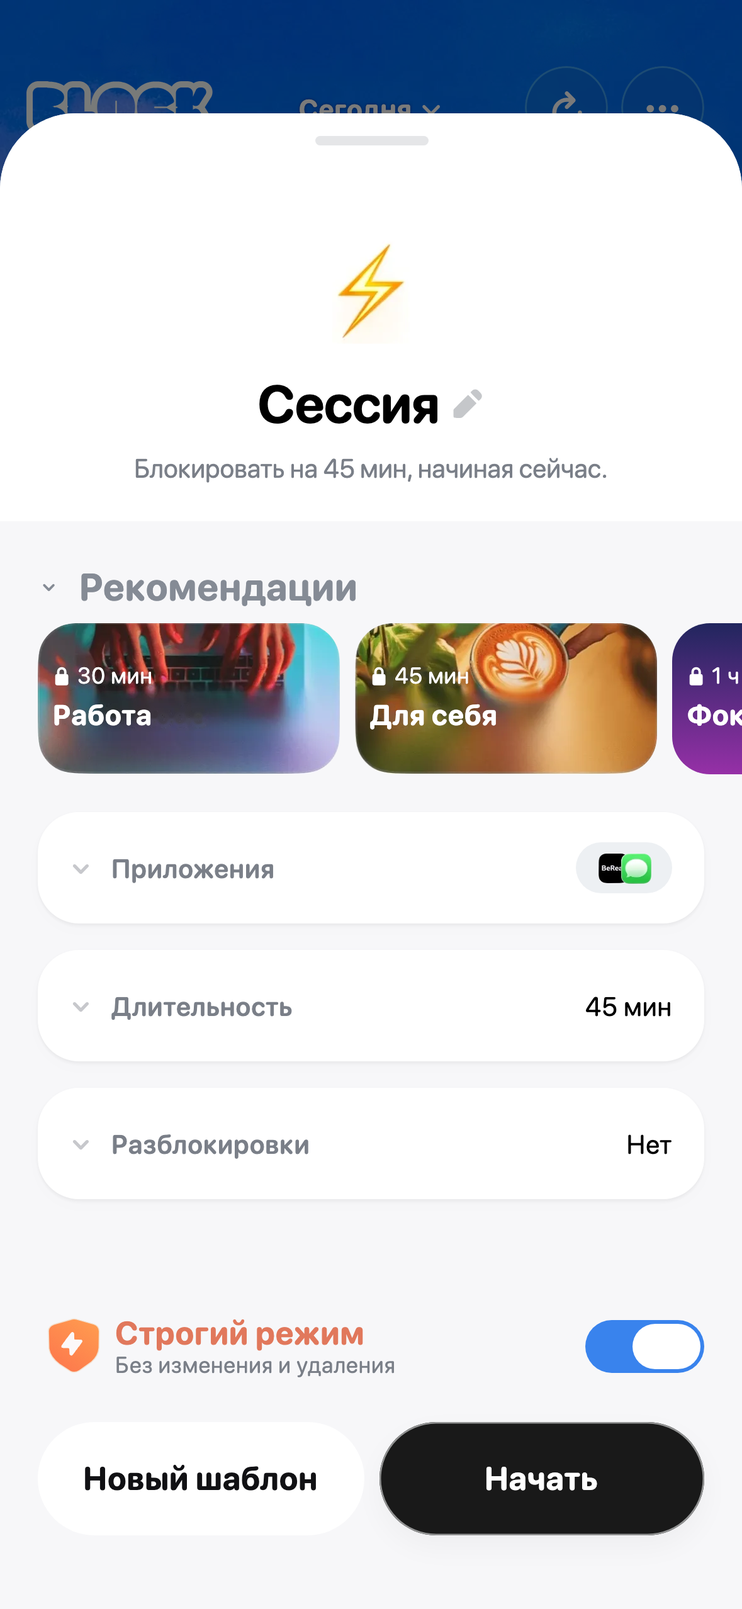
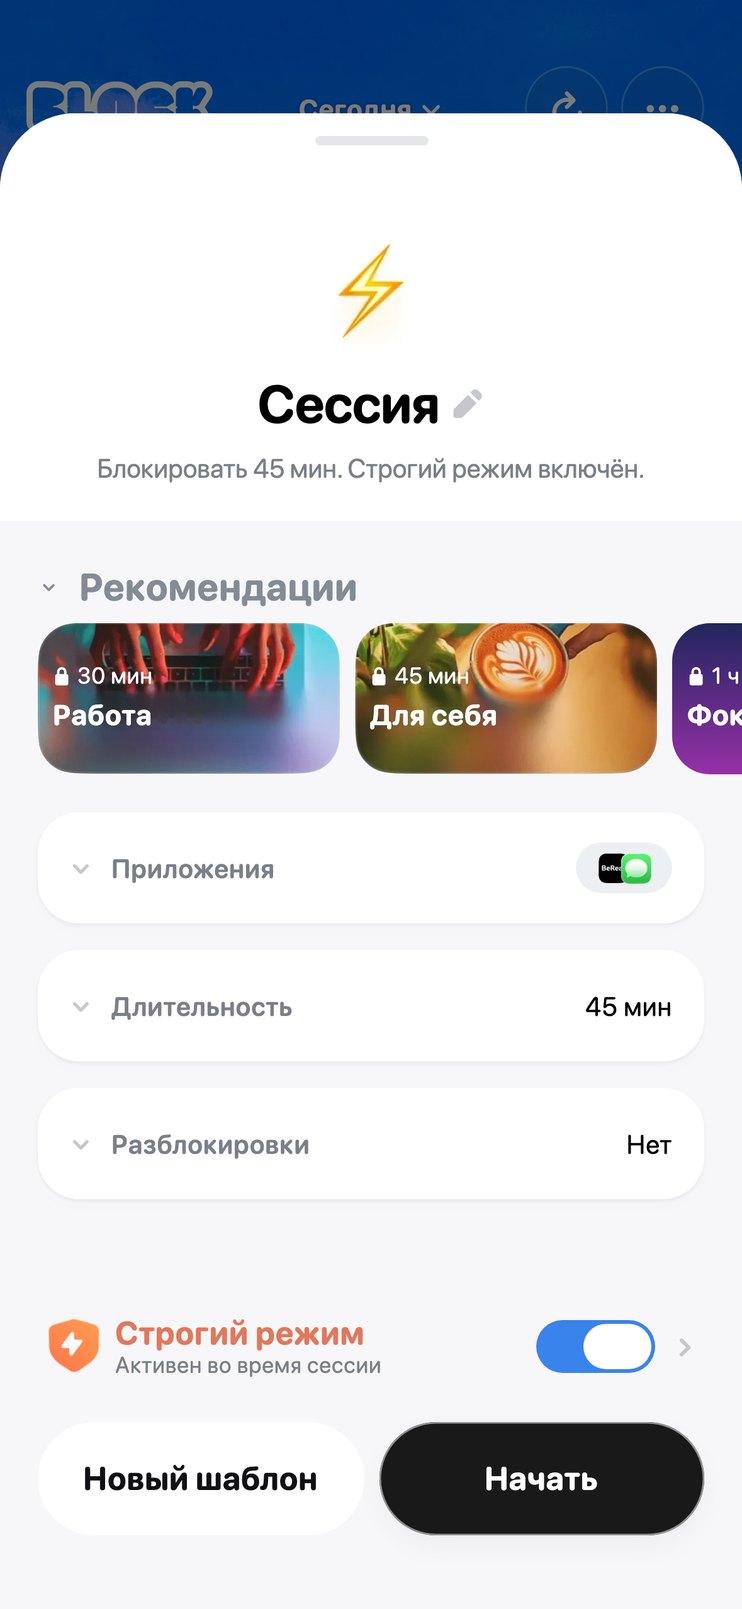
Перенести настройки и подтверждение строгого режима

diff --git a/src/screens/session/StrictSettingsSheet.tsx b/src/screens/session/StrictSettingsSheet.tsx
@@ -1,0 +1,56 @@
+import { BlurView } from 'expo-blur';
+import { LinearGradient } from 'expo-linear-gradient';
+import { useState } from 'react';
+import { Modal, Pressable, ScrollView, StyleSheet, View, useWindowDimensions } from 'react-native';
+import { useSafeAreaInsets } from 'react-native-safe-area-context';
+import { Icon } from '@/components/Icon';
+import { animateLayout, PressScale } from '@/components/motion';
+import type { StrictSettings } from '@/data/session';
+import { colors, strictTheme as c } from '@/theme/tokens';
+import { T } from '@/theme/typography';
+
+export const strictDaysLabel = (days: number) => `${days} ${days === 1 || days === 21 ? 'день' : days % 10 >= 2 && days % 10 <= 4 && (days < 12 || days > 14) ? 'дня' : 'дней'}`;
+export function StrictSettingsSheet({ value, onCancel, onActivate }: { value: StrictSettings; onCancel: () => void; onActivate: (settings: StrictSettings) => void }) {
+  const [draft, setDraft] = useState<StrictSettings>(() => ({ strictScope: value.strictScope, strictDays: value.strictDays }));
+  const { height } = useWindowDimensions();
+  const insets = useSafeAreaInsets();
+  const session = draft.strictScope === 'session';
+  return <Modal transparent animationType="slide" onRequestClose={onCancel}>
+    <View style={{ flex: 1 }}><Pressable accessibilityLabel="Отменить строгий режим" onPress={onCancel} style={[StyleSheet.absoluteFill, { backgroundColor: c.backdrop }]} />
+      <View style={[styles.sheet, { top: Math.max(insets.top + 20, height - 579) }]} accessibilityViewIsModal>
+        <View style={styles.handle} /><View style={styles.title}><Icon name="session-shield" width={22} height={24} /><T size={20} ls={0}>Строгий режим</T></View>
+        <ScrollView showsVerticalScrollIndicator={false} style={{ marginTop: 97 }} contentContainerStyle={{ paddingHorizontal: 20, paddingBottom: 120 }}>
+          <View style={[styles.card, { height: session ? 194 : draft.strictDays === 1 ? 315 : 292 }]}>
+            <View style={styles.section}><Icon name="chevron-down-section" width={10} height={8} color={c.handle} style={{ transform: [{ rotate: '180deg' }] }} /><T size={20} ls={0}>Активность…</T></View>
+            <View style={[styles.tabs, session && { left: -49 }]}>
+              {(['days', 'session'] as const).map(scope => <PressScale key={scope} accessibilityRole="radio" accessibilityLabel={scope === 'days' ? 'Строгий режим на срок' : 'Строгий режим на время сессии'} accessibilityState={{ checked: draft.strictScope === scope }} onPress={() => { animateLayout(); setDraft(d => ({ ...d, strictScope: scope })); }} style={[styles.tab, { width: scope === 'days' ? session ? 123 : 143 : session ? 180 : 161 }, draft.strictScope === scope && styles.tabOn]}><T size={session ? 14 : 13.5} color={draft.strictScope === scope ? colors.white : c.secondary} ls={0}>{draft.strictScope === scope ? '✓ ' : ''}{scope === 'days' ? session ? 'На срок' : 'На заданный срок' : 'На время сессии'}</T></PressScale>)}
+              {session && <View style={[styles.tab, { width: 80 }]} accessibilityState={{ disabled: true }}><T size={14} color={c.secondary} ls={0}>Всегда</T></View>}
+            </View>
+            <View style={styles.description}>{session ? <T size={18} center ls={0} style={{ lineHeight: 23 }}>Запретить изменения <T size={18} color={c.red} ls={0}>во время </T><T size={18} color={c.orange} ls={0}>сессии.</T></T> : <><T size={18} center ls={0} style={{ lineHeight: 23 }}>Запретить изменения</T>{draft.strictDays === 1 ? <><T size={18} center ls={0} color={c.red} style={{ lineHeight: 23 }}>на 24 часа после</T><T size={18} center ls={0} color={c.orange} style={{ lineHeight: 23 }}>начала правила.</T></> : <T size={18} center ls={0} color={c.red} style={{ lineHeight: 23 }}>на {strictDaysLabel(draft.strictDays)} после начала правила.</T>}</>}</View>
+            {!session && <><View style={styles.days}><PressScale accessibilityRole="button" accessibilityLabel="Уменьшить срок строгого режима" disabled={draft.strictDays <= 1} accessibilityState={{ disabled: draft.strictDays <= 1 }} onPress={() => setDraft(d => ({ ...d, strictDays: d.strictDays - 1 }))} style={[styles.countButton, draft.strictDays <= 1 && { opacity: .4 }]}><T size={25} weight={500} ls={0}>−</T></PressScale><T size={36} ls={0}>{strictDaysLabel(draft.strictDays)}</T><PressScale accessibilityRole="button" accessibilityLabel="Увеличить срок строгого режима" disabled={draft.strictDays >= 30} accessibilityState={{ disabled: draft.strictDays >= 30 }} onPress={() => setDraft(d => ({ ...d, strictDays: d.strictDays + 1 }))} style={styles.countButton}><Icon name="plus" width={15} height={15} color={colors.black} /></PressScale></View><T size={11} weight={400} color={c.note} center ls={0} style={styles.note}>При необходимости срок можно продлить.</T></>}
+          </View>
+          <View style={styles.prevent}><Icon name="chevron-down-section" width={10} height={8} color={c.handle} /><T size={14} weight={600} color={c.secondary} ls={0}>Запретить…</T><T size={14} weight={400} ls={0} style={{ marginLeft: 'auto' }}>3</T></View>
+        </ScrollView>
+        <LinearGradient pointerEvents="none" colors={[c.surfaceFade, c.surface]} style={styles.fade} />
+        <PressScale accessibilityRole="button" accessibilityLabel="Включить строгий режим" onPress={() => onActivate(draft)} style={[styles.activate, { bottom: Math.max(45, insets.bottom + 10) }]}><LinearGradient colors={c.gradient} start={{ x: 0, y: 0 }} end={{ x: 1, y: 0 }} style={StyleSheet.absoluteFill} /><Icon name="shield-check-white" width={17} height={19} color={colors.white} /><T size={16} color={colors.white} ls={0}>Включить строгий режим</T></PressScale>
+      </View>
+    </View>
+  </Modal>;
+}
+export function StrictConfirmation({ onCancel, onContinue }: { onCancel: () => void; onContinue: () => void }) {
+  const { height } = useWindowDimensions();
+  return <Modal transparent animationType="fade" onRequestClose={onCancel}><View style={{ flex: 1 }}><Pressable accessibilityLabel="Закрыть подтверждение строгого режима" onPress={onCancel} style={[StyleSheet.absoluteFill, { backgroundColor: c.alertBackdrop }]} />
+    <View style={[styles.alert, { top: height * .515 - 96 }]} accessibilityViewIsModal accessibilityRole="alert">
+      <BlurView intensity={16} tint="light" style={StyleSheet.absoluteFill} /><LinearGradient colors={c.alertGradient} style={StyleSheet.absoluteFill} />
+      <T size={17} weight={600} ls={0} variant="display" style={styles.alertTitle}>✋ Включить строгий режим?</T><T size={15} weight={400} color={c.alertCopy} ls={0} variant="display" style={styles.alertCopy}>Нельзя менять правило и удалять приложения с iPhone/iPad, пока включён строгий режим.</T>
+      <View style={styles.alertActions}><PressScale accessibilityRole="button" onPress={onCancel} style={[styles.alertButton, { backgroundColor: c.alertCancel }]}><T size={17} weight={400} variant="display" ls={0}>Отмена</T></PressScale><PressScale accessibilityRole="button" onPress={onContinue} style={[styles.alertButton, { backgroundColor: c.alertPrimary }]}><T size={17} weight={500} variant="display" color={colors.white} ls={0}>Продолжить</T></PressScale></View>
+    </View>
+  </View></Modal>;
+}
+const styles = StyleSheet.create({
+  sheet: { position: 'absolute', left: 8, right: 8, bottom: 8, borderRadius: c.radius, backgroundColor: c.surface, overflow: 'hidden' }, handle: { position: 'absolute', top: 11, width: 60, height: 5, alignSelf: 'center', backgroundColor: c.handle, borderRadius: 5 }, title: { position: 'absolute', top: 42, left: 0, right: 0, flexDirection: 'row', gap: 5, alignItems: 'center', justifyContent: 'center' },
+  card: { backgroundColor: colors.white, borderRadius: c.cardRadius, overflow: 'hidden' }, section: { position: 'absolute', left: 16, top: 15, flexDirection: 'row', alignItems: 'center', gap: 8 }, tabs: { position: 'absolute', top: 52, left: 15, flexDirection: 'row', gap: 4 }, tab: { height: 40, borderRadius: c.tabRadius, borderWidth: 1, borderColor: c.border, alignItems: 'center', justifyContent: 'center' }, tabOn: { backgroundColor: c.blue, borderColor: c.blue }, description: { position: 'absolute', top: 119, left: 28, right: 28 },
+  days: { position: 'absolute', left: 40, right: 40, bottom: 52, height: 42, flexDirection: 'row', alignItems: 'center', justifyContent: 'space-between' }, countButton: { width: 38, height: 38, borderRadius: 19, backgroundColor: c.countFill, alignItems: 'center', justifyContent: 'center' }, note: { position: 'absolute', bottom: 24, left: 0, right: 0 }, prevent: { marginTop: 12, height: 60, borderRadius: c.cardRadius, backgroundColor: colors.white, flexDirection: 'row', alignItems: 'center', paddingHorizontal: 16, gap: 8 },
+  fade: { position: 'absolute', left: 0, right: 0, bottom: 0, height: 117 }, activate: { position: 'absolute', left: 20, right: 20, height: 57, borderRadius: 32, overflow: 'hidden', flexDirection: 'row', alignItems: 'center', justifyContent: 'center', gap: 5 },
+  alert: { position: 'absolute', left: 37, right: 37, height: 192, borderRadius: c.radius, overflow: 'hidden', boxShadow: c.alertShadow }, alertTitle: { position: 'absolute', top: 21, left: 30, right: 20, lineHeight: 22 }, alertCopy: { position: 'absolute', top: 49, left: 30, right: 30, lineHeight: 20 }, alertActions: { position: 'absolute', left: 16, right: 16, bottom: 16, height: 48, flexDirection: 'row', gap: 8 }, alertButton: { flex: 1, borderRadius: 26, justifyContent: 'center', alignItems: 'center' },
+});

diff --git a/docs/reviews/2026-11-02-progress.html b/docs/reviews/2026-11-02-progress.html
@@ -1,0 +1,1 @@
+<!doctype html><html lang="ru"><meta charset="utf-8"><meta name="viewport" content="width=device-width,initial-scale=1"><title>Сравнение экранов React Native</title><style>body{margin:0;background:#eeeef1;color:#17191a;font:16px system-ui,sans-serif}header,main{max-width:786px;margin:auto;padding:24px}header{background:white}h1{font-size:26px}h2{margin-top:48px;font-size:22px}figure{margin:20px 0;background:white;border-radius:16px;overflow:hidden}figcaption{padding:14px;font-size:14px}img{display:block;width:100%;height:auto}a{color:#176be2}</style><header><h1>Продолжение React Native</h1><p>Оригинал слева, текущая вёрстка справа. Нажмите на сравнение для увеличения.</p><p><a href="http://localhost:8081">Открыть приложение</a> · <a href="2026-11-02-progress.md">Общий отчёт</a></p><p>Проверено в Chrome. Полная приёмка1:1 и проверка на iPhone ещё не завершены.</p></header><main><section><h2>Длительность, разблокировки и шаблоны</h2><p><a href="2026-11-02-session-unlocks/README.md">Отчёт и ограничения</a></p><figure><figcaption>Состояние 054 · оригинал слева / React Native справа</figcaption><a href="2026-11-02-session-unlocks/comparison-01-overview-054.png" target="_blank"><img loading="lazy" src="2026-11-02-session-unlocks/comparison-01-overview-054.png" alt="Оригинал и React Native рядом"></a></figure><figure><figcaption>Состояние 055 · оригинал слева / React Native справа</figcaption><a href="2026-11-02-session-unlocks/comparison-02-unlocks-no-055.png" target="_blank"><img loading="lazy" src="2026-11-02-session-unlocks/comparison-02-unlocks-no-055.png" alt="Оригинал и React Native рядом"></a></figure><figure><figcaption>Состояние 056 · оригинал слева / React Native справа</figcaption><a href="2026-11-02-session-unlocks/comparison-03-unlocks-two-056.png" target="_blank"><img loading="lazy" src="2026-11-02-session-unlocks/comparison-03-unlocks-two-056.png" alt="Оригинал и React Native рядом"></a></figure><figure><figcaption>076 · Длительность15мин · оригинал слева / React Native справа</figcaption><a href="2026-11-02-session-unlocks/comparison-04-duration-sheet-15.png" target="_blank"><img loading="lazy" src="2026-11-02-session-unlocks/comparison-04-duration-sheet-15.png" alt="Оригинал и React Native рядом"></a></figure><figure><figcaption>077 · Длительность10мин · оригинал слева / React Native справа</figcaption><a href="2026-11-02-session-unlocks/comparison-05-duration-sheet-10.png" target="_blank"><img loading="lazy" src="2026-11-02-session-unlocks/comparison-05-duration-sheet-10.png" alt="Оригинал и React Native рядом"></a></figure></section><section><h2>Иконка и название</h2><p><a href="2026-11-02-session-icons/README.md">Отчёт и ограничения</a></p><figure><figcaption>Состояние 059 · оригинал слева / React Native справа</figcaption><a href="2026-11-02-session-icons/comparison-00-icon-picker-059.png" target="_blank"><img loading="lazy" src="2026-11-02-session-icons/comparison-00-icon-picker-059.png" alt="Оригинал и React Native рядом"></a></figure><figure><figcaption>Состояние 060 · оригинал слева / React Native справа</figcaption><a href="2026-11-02-session-icons/comparison-01-search-brain-060.png" target="_blank"><img loading="lazy" src="2026-11-02-session-icons/comparison-01-search-brain-060.png" alt="Оригинал и React Native рядом"></a></figure><figure><figcaption>Состояние 061 · оригинал слева / React Native справа</figcaption><a href="2026-11-02-session-icons/comparison-02-session-brain-061.png" target="_blank"><img loading="lazy" src="2026-11-02-session-icons/comparison-02-session-brain-061.png" alt="Оригинал и React Native рядом"></a></figure><figure><figcaption>Состояние 062 · оригинал слева / React Native справа</figcaption><a href="2026-11-02-session-icons/comparison-03-focus-renamed-062.png" target="_blank"><img loading="lazy" src="2026-11-02-session-icons/comparison-03-focus-renamed-062.png" alt="Оригинал и React Native рядом"></a></figure></section><section><h2>Пауза и причина</h2><p><a href="2026-11-02-unlock-methods/README.md">Отчёт и ограничения</a></p><figure><figcaption>Состояние 080 · оригинал слева / React Native справа</figcaption><a href="2026-11-02-unlock-methods/comparison-00-wait-automatic-080.png" target="_blank"><img loading="lazy" src="2026-11-02-unlock-methods/comparison-00-wait-automatic-080.png" alt="Оригинал и React Native рядом"></a></figure><figure><figcaption>Состояние 081 · оригинал слева / React Native справа</figcaption><a href="2026-11-02-unlock-methods/comparison-01-wait-30s-081.png" target="_blank"><img loading="lazy" src="2026-11-02-unlock-methods/comparison-01-wait-30s-081.png" alt="Оригинал и React Native рядом"></a></figure><figure><figcaption>Состояние 082 · оригинал слева / React Native справа</figcaption><a href="2026-11-02-unlock-methods/comparison-02-wait-1m-082.png" target="_blank"><img loading="lazy" src="2026-11-02-unlock-methods/comparison-02-wait-1m-082.png" alt="Оригинал и React Native рядом"></a></figure><figure><figcaption>Состояние 084 · оригинал слева / React Native справа</figcaption><a href="2026-11-02-unlock-methods/comparison-03-reason-084.png" target="_blank"><img loading="lazy" src="2026-11-02-unlock-methods/comparison-03-reason-084.png" alt="Оригинал и React Native рядом"></a></figure></section><section><h2>Перепечатать текст</h2><p><a href="2026-11-02-unlock-text/README.md">Отчёт и ограничения</a></p><figure><figcaption>Состояние 086 · оригинал слева / React Native справа</figcaption><a href="2026-11-02-unlock-text/comparison-00-copy-text-086.png" target="_blank"><img loading="lazy" src="2026-11-02-unlock-text/comparison-00-copy-text-086.png" alt="Оригинал и React Native рядом"></a></figure><figure><figcaption>Состояние 089 · оригинал слева / React Native справа</figcaption><a href="2026-11-02-unlock-text/comparison-01-copy-text-edited-089.png" target="_blank"><img loading="lazy" src="2026-11-02-unlock-text/comparison-01-copy-text-edited-089.png" alt="Оригинал и React Native рядом"></a></figure><figure><figcaption>Состояние 087 · оригинал слева / React Native справа</figcaption><a href="2026-11-02-unlock-text/comparison-02-session-text-087.png" target="_blank"><img loading="lazy" src="2026-11-02-unlock-text/comparison-02-session-text-087.png" alt="Оригинал и React Native рядом"></a></figure></section><section><h2>Строгий режим</h2><p><a href="2026-11-02-strict/README.md">Отчёт и ограничения</a></p><figure><figcaption>Состояние 095 · оригинал слева / React Native справа</figcaption><a href="2026-11-02-strict/comparison-00-during-session-095.png" target="_blank"><img loading="lazy" src="2026-11-02-strict/comparison-00-during-session-095.png" alt="Оригинал и React Native рядом"></a></figure><figure><figcaption>Состояние 100 · оригинал слева / React Native справа</figcaption><a href="2026-11-02-strict/comparison-01-one-day-100.png" target="_blank"><img loading="lazy" src="2026-11-02-strict/comparison-01-one-day-100.png" alt="Оригинал и React Native рядом"></a></figure><figure><figcaption>Состояние 101 · оригинал слева / React Native справа</figcaption><a href="2026-11-02-strict/comparison-02-two-days-101.png" target="_blank"><img loading="lazy" src="2026-11-02-strict/comparison-02-two-days-101.png" alt="Оригинал и React Native рядом"></a></figure><figure><figcaption>Состояние 096 · оригинал слева / React Native справа</figcaption><a href="2026-11-02-strict/comparison-03-strict-on-096.png" target="_blank"><img loading="lazy" src="2026-11-02-strict/comparison-03-strict-on-096.png" alt="Оригинал и React Native рядом"></a></figure><figure><figcaption>Состояние 097 · оригинал слева / React Native справа</figcaption><a href="2026-11-02-strict/comparison-04-confirmation-097.png" target="_blank"><img loading="lazy" src="2026-11-02-strict/comparison-04-confirmation-097.png" alt="Оригинал и React Native рядом"></a></figure></section></main></html>

diff --git a/src/screens/session/SessionEditor.tsx b/src/screens/session/SessionEditor.tsx
@@ -5,6 +5,7 @@ import { useState } from 'react';
 import { Pressable, ScrollView, StyleSheet, TextInput, View } from 'react-native';
 import { useSafeAreaInsets } from 'react-native-safe-area-context';
 import { SessionIcon } from '@/components/SessionIcon';
+import { StrictSettingsSheet, StrictConfirmation, strictDaysLabel } from './StrictSettingsSheet';
 import { SessionIconPicker } from './SessionIconPicker';
 import { Icon } from '@/components/Icon';
 import { animateLayout, PressScale } from '@/components/motion';
@@ -25,6 +26,8 @@ export function SessionEditor() {
   const [open, setOpen] = useState<'duration' | 'unlocks' | 'apps' | null>(null);
   const [editing, setEditing] = useState(false);
   const [iconOpen, setIconOpen] = useState(false);
+  const [strictOpen, setStrictOpen] = useState(false);
+  const [strictConfirm, setStrictConfirm] = useState(false);
   const [selectedApps, setSelectedApps] = useState([true, true, true]);
   const activityExpanded = open === 'duration';
   const unlockExpanded = open === 'unlocks';
@@ -47,7 +50,7 @@ export function SessionEditor() {
           </PressScale>
           {editing ? <TextInput autoFocus accessibilityLabel="Название сессии" value={draft.title} onChangeText={title => patch({ title })} onBlur={() => { patch({ title: draft.title.trim() || 'Сессия' }); setEditing(false); }} onSubmitEditing={() => { patch({ title: draft.title.trim() || 'Сессия' }); setEditing(false); }} maxLength={35} style={styles.titleInput} /> :
             <PressScale onPress={() => setEditing(true)} accessibilityRole="button" accessibilityLabel="Изменить название сессии" style={styles.title}><T size={28} ls={-.4} numberOfLines={1} style={{ flexShrink: 1 }}>{draft.title}</T><Icon name="pencil" width={18} height={18} color={c.disabled} /></PressScale>}
-          <T size={14} weight={400} center color={c.secondary} ls={0} style={{ marginTop: 9.8 }}>{draft.scheduled ? draft.allDay ? 'Блокировать приложения весь день.' : `Блокировать ${draft.days.length === 7 ? 'каждый день' : daysSummary} с ${shortTime(draft.start, draft.startMinute)} до ${shortTime(draft.end, draft.endMinute)}.` : `Блокировать на ${durationLabel(draft.minutes)}, начиная сейчас.`}</T>
+          <T size={14} weight={400} center color={c.secondary} ls={0} style={{ marginTop: 9.8 }}>{draft.strict && !draft.scheduled ? `Блокировать ${durationLabel(draft.minutes)}. Строгий режим включён.` : draft.scheduled ? draft.allDay ? 'Блокировать приложения весь день.' : `Блокировать ${draft.days.length === 7 ? 'каждый день' : daysSummary} с ${shortTime(draft.start, draft.startMinute)} до ${shortTime(draft.end, draft.endMinute)}.` : `Блокировать на ${durationLabel(draft.minutes)}, начиная сейчас.`}</T>
         </View>}
         {!compact && <View style={styles.suggestionHeading}><Icon name="chevron-down-section" width={8} height={6} color={c.section} /><T size={20} color={c.section}>{draft.scheduled ? 'Подборки' : 'Рекомендации'}</T></View>}
         <View style={compact ? styles.compactBand : styles.normalBand}><View style={compact ? styles.compactViewport : styles.normalBand}>
@@ -77,10 +80,12 @@ export function SessionEditor() {
         </View>
       </ScrollView>
       <View style={[styles.footer, { paddingBottom: Math.max(39, insets.bottom + 5) }]}>
-        <View style={styles.strict}><Icon name="session-shield" width={28} height={30} /><View><T size={17} color={c.strict}>Строгий режим</T><T size={12} weight={400} color={c.secondary}>Без изменения и удаления</T></View><View style={{ marginLeft: 'auto' }}><FlowSwitch label="Строгий режим" value={draft.strict} onChange={strict => patch({ strict })} /></View></View>
-        <View style={styles.actions}><SessionAction disabled={!selectedApps.some(Boolean)} onPress={() => finish(true)}>Новый шаблон</SessionAction><SessionAction primary disabled={!selectedApps.some(Boolean)} onPress={() => finish(false)}>{draft.scheduled ? 'Расписание' : 'Начать'}</SessionAction></View>
+        <View style={styles.strict}><PressScale accessibilityRole="button" accessibilityLabel="Настройки строгого режима" onPress={() => setStrictOpen(true)} style={{ flexDirection: 'row', alignItems: 'center', gap: 8, flex: 1 }}><Icon name="session-shield" width={28} height={30} /><View><T size={17} color={c.strict}>Строгий режим</T><T size={12} weight={400} color={c.secondary}>{draft.strict ? draft.strictScope === 'session' ? 'Активен во время сессии' : `Активен ${strictDaysLabel(draft.strictDays)}` : 'Без изменения и удаления'}</T></View></PressScale><View style={{ marginLeft: 'auto', marginRight: draft.strict ? 26 : 0 }}><FlowSwitch label="Строгий режим" value={draft.strict} onChange={strict => strict ? setStrictOpen(true) : patch({ strict: false })} /></View>{draft.strict && <Icon name="chevron-right" width={9} height={13} color={c.disabled} style={{ position: 'absolute', right: 6 }} />}</View>
+        <View style={styles.actions}><SessionAction disabled={!selectedApps.some(Boolean)} onPress={() => finish(true)}>Новый шаблон</SessionAction><SessionAction primary disabled={!selectedApps.some(Boolean)} onPress={() => draft.strict ? setStrictConfirm(true) : finish(false)}>{draft.scheduled ? 'Расписание' : 'Начать'}</SessionAction></View>
       </View>
     </View>
+    {strictOpen && <StrictSettingsSheet value={draft} onCancel={() => setStrictOpen(false)} onActivate={settings => { patch({ ...settings, strict: true }); setStrictOpen(false); }} />}
+    {strictConfirm && <StrictConfirmation onCancel={() => setStrictConfirm(false)} onContinue={() => { setStrictConfirm(false); finish(false); }} />}
     {iconOpen && <SessionIconPicker selected={draft.iconId} onSelect={iconId => { patch({ iconId }); setIconOpen(false); }} onClose={() => setIconOpen(false)} />}
   </View>;
 }

diff --git a/src/theme/tokens.ts b/src/theme/tokens.ts
@@ -193,7 +193,7 @@ export const savedTemplateTheme = {
 // Нижний лист выбора emoji059/060.
 export const sessionIconTheme = {
   surface: '#f7f8fa', backdrop: 'rgba(0,0,0,.12)', handle: '#d7d9dc',
-  searchBorder: '#dedfe2', placeholder: '#b9bdc3', searchIcon: '#c2c5c9',
+  focusOutline: 'transparent', searchBorder: '#dedfe2', placeholder: '#b9bdc3', searchIcon: '#c2c5c9',
   sheetTopRadius: 52, sheetBottomRadius: 64, searchRadius: 30, tileRadius: 16,
 } as const;
 
@@ -205,4 +205,15 @@ export const unlockMethodTheme = {
   copyFade: 'rgba(255,255,255,0)', surfaceFade: 'rgba(246,248,250,0)',
   copyBorder: '#e7e8eb', copyAction: '#4f91ce', copyPlaceholder: '#b0b5bd', copyRadius: 25,
   panelRadius: 44, cardRadius: 21, gridRadius: 19, stepperRadius: 20,
+} as const;
+
+export const strictTheme = {
+  surface: '#f6f8fa', backdrop: 'rgba(0,0,0,.13)', handle: '#dcdfe2', border: '#e3e5e8',
+  secondary: '#7b8698', blue: '#4b83ed', note: '#7d8797', countFill: '#f4f5f7',
+  gradient: ['#fa5851', '#ffaf46'], red: '#fb534b', orange: '#ffac49',
+  radius: 34, cardRadius: 21, tabRadius: 23,
+  surfaceFade: 'rgba(246,248,250,.9)',
+  alertBackdrop: 'rgba(0,0,0,.2)', alertCopy: '#595959', alertCancel: '#d0d0d0', alertPrimary: '#0088ff',
+  alertGradient: ['rgba(255,255,255,.46)', 'rgba(255,255,255,.82)'],
+  alertShadow: 'inset 0px 0px 0px 1px #ffffffa8, 0px 10px 30px #0000000c',
 } as const;

diff --git a/src/screens/session/SessionIconPicker.tsx b/src/screens/session/SessionIconPicker.tsx
@@ -40,7 +40,7 @@ const styles = StyleSheet.create({
   sheet: { flex: 1, marginHorizontal: 8, marginBottom: 8, backgroundColor: c.surface, borderTopLeftRadius: c.sheetTopRadius, borderTopRightRadius: c.sheetTopRadius, borderBottomLeftRadius: c.sheetBottomRadius, borderBottomRightRadius: c.sheetBottomRadius, overflow: 'hidden' },
   handle: { position: 'absolute', top: 11, alignSelf: 'center', width: 60, height: 5, borderRadius: 4, backgroundColor: c.handle },
   search: { marginTop: 73, marginHorizontal: 18, height: 52, borderRadius: c.searchRadius, borderWidth: 1, borderColor: c.searchBorder, flexDirection: 'row', alignItems: 'center', paddingLeft: 19, paddingRight: 12, gap: 7 },
-  input: { flex: 1, height: 50, padding: 0, fontSize: 14, fontWeight: '400', color: colors.black, outlineWidth: 0 },
+  input: { flex: 1, height: 50, padding: 0, fontSize: 14, fontWeight: '400', color: colors.black, outlineWidth: 0, outlineStyle: 'solid', outlineColor: c.focusOutline },
   clear: { width: 24, height: 40, alignItems: 'center', justifyContent: 'center' },
   grid: { paddingLeft: 19, paddingRight: 20, paddingBottom: 12, flexDirection: 'row', flexWrap: 'wrap', gap: 8 },
   tile: { height: 61.333, borderRadius: c.tileRadius, backgroundColor: colors.white, alignItems: 'center', justifyContent: 'center' },

diff --git a/src/data/rules.ts b/src/data/rules.ts
@@ -1,4 +1,4 @@
-import type { UnlockSettings } from './session';
+import type { StrictSettings, UnlockSettings } from './session';
 import type { SessionIconId } from './sessionIcons';
 import type { RulesVariant } from '@/state/app';
 
@@ -20,6 +20,7 @@ export type SessionRule = {
   unlockMinutes?: number;
   iconId?: SessionIconId;
   unlockSettings?: UnlockSettings;
+  strictSettings?: StrictSettings;
   id: string;
   emoji: 'laptop' | 'briefcase' | 'zap';
   title: string;

diff --git a/docs/reviews/2026-11-02-strict/README.md b/docs/reviews/2026-11-02-strict/README.md
@@ -1,0 +1,11 @@
+# Строгий режим — 2 ноября 2026
+
+Обновлены095–097/100–101. Переключатель открывает StrictSettingsSheet: на время сессии или заданное число дней1–30. Отмена не включает режим и не меняет срок; активация применяет настройки. Повторное открытие восстанавливает срок. Отключение переключателем сохраняет настройки для следующего включения.
+
+В редакторе096 появляются подпись активности, шеврон и сдвиг переключателя, меняется подзаголовок. Нажатие «Начать» открывает подтверждение097. «Отмена» сохраняет редактор; «Продолжить» создаёт правило с признаком strict. Срок строгого режима передаётся в правило и шаблон через strictSettings. Никакой реальной системной блокировки эти настройки не выполняют.
+
+Геометрия393×852: листx8/y273/w377/h571; карточка активностиx28/y370/w337, высота194/315/292; кнопка активацииy742/h57; подтверждениеx37/y342.77/w319/h192. Заливка кнопки — LinearGradient, не растр. В описании использованы цветные участки текста T; непрерывный градиент букв пока не повторён. «Запретить…3» и «Всегда» пока не редактируются. В исходном101 счётчик запретов меняется с3на4 без показанного изменения списка; приложение сохраняет текущие3запрета и не выводит изменение числа из срока. Это оставшееся расхождение101.
+
+Проверено: typecheck, lint, web-export; check-strict-flow.mjs (граница срока, отмена, активация, восстановление срока, подтверждение/отмена запуска и создание правила). Обновлена и повторена check-session-flow.mjs, которая теперь проходит реальную цепочку строгого режима. Ошибок браузера нет. Координаты диалога проверяются автоматически в checks.json.
+
+Все пять состояний сопоставлены с оригиналами слева в comparison-*.png. Проверено глазами в React Native Web; iPhone/Expo Go и VoiceOver не проверены. Подложка показывает фактическую Главную, Web не имитирует системную строку. Полное1:1 не заявлено. Диалог выполнен общим Modal/BlurView/T, а не платформенным Alert.

diff --git a/docs/reviews/2026-11-02-progress.md b/docs/reviews/2026-11-02-progress.md
@@ -1,0 +1,16 @@
+# Продолжение React Native — 2 ноября 2026
+
+В этой итерации обновлены состояния054–062,076–077,080–082,084–087,089,095–097,100–101. Дополнительно исправлены циклические минуты050/051. Это перечень изменённых состояний, не число экранов с полной приёмкой.
+
+- [Разблокировки и шаблоны054–058/076–077](2026-11-02-session-unlocks/README.md).
+- [Иконка и название059–062](2026-11-02-session-icons/README.md).
+- [Пауза и причина080–082/084](2026-11-02-unlock-methods/README.md).
+- [Перепечатывание086/087/089](2026-11-02-unlock-text/README.md).
+- [Строгий режим095–097/100–101](2026-11-02-strict/README.md).
+- [Общая галерея сравнений](2026-11-02-progress.html).
+
+Веб-приложение: http://localhost:8081. Начать блокировку → Прямо сейчас / По расписанию. Иконка меняется нажатием на молнию, название — на карандаш. Настройки разблокировок и строгого режима доступны из редактора.
+
+Проверено глазами в Chrome393×852 и в UI-сценариях. Typecheck, lint и web-export проходят. На iPhone/Expo Go не проверено.057/058 обновлены в части шаблонов, не воспроизводят неизменяемые данные всего исходного кадра.101 сохраняет3запрета вместо необъяснённого4 в референсе; непрерывный градиент букв ещё не повторён. Все ограничения записаны в отчётах.
+
+Следующие крупные блоки:063–069 (категории и сайты),083 (полный список способов),090–094 (сканирование), остальные три действия меню блокировки. Созданные данные хранятся в памяти, системного Screen Time пока нет.
